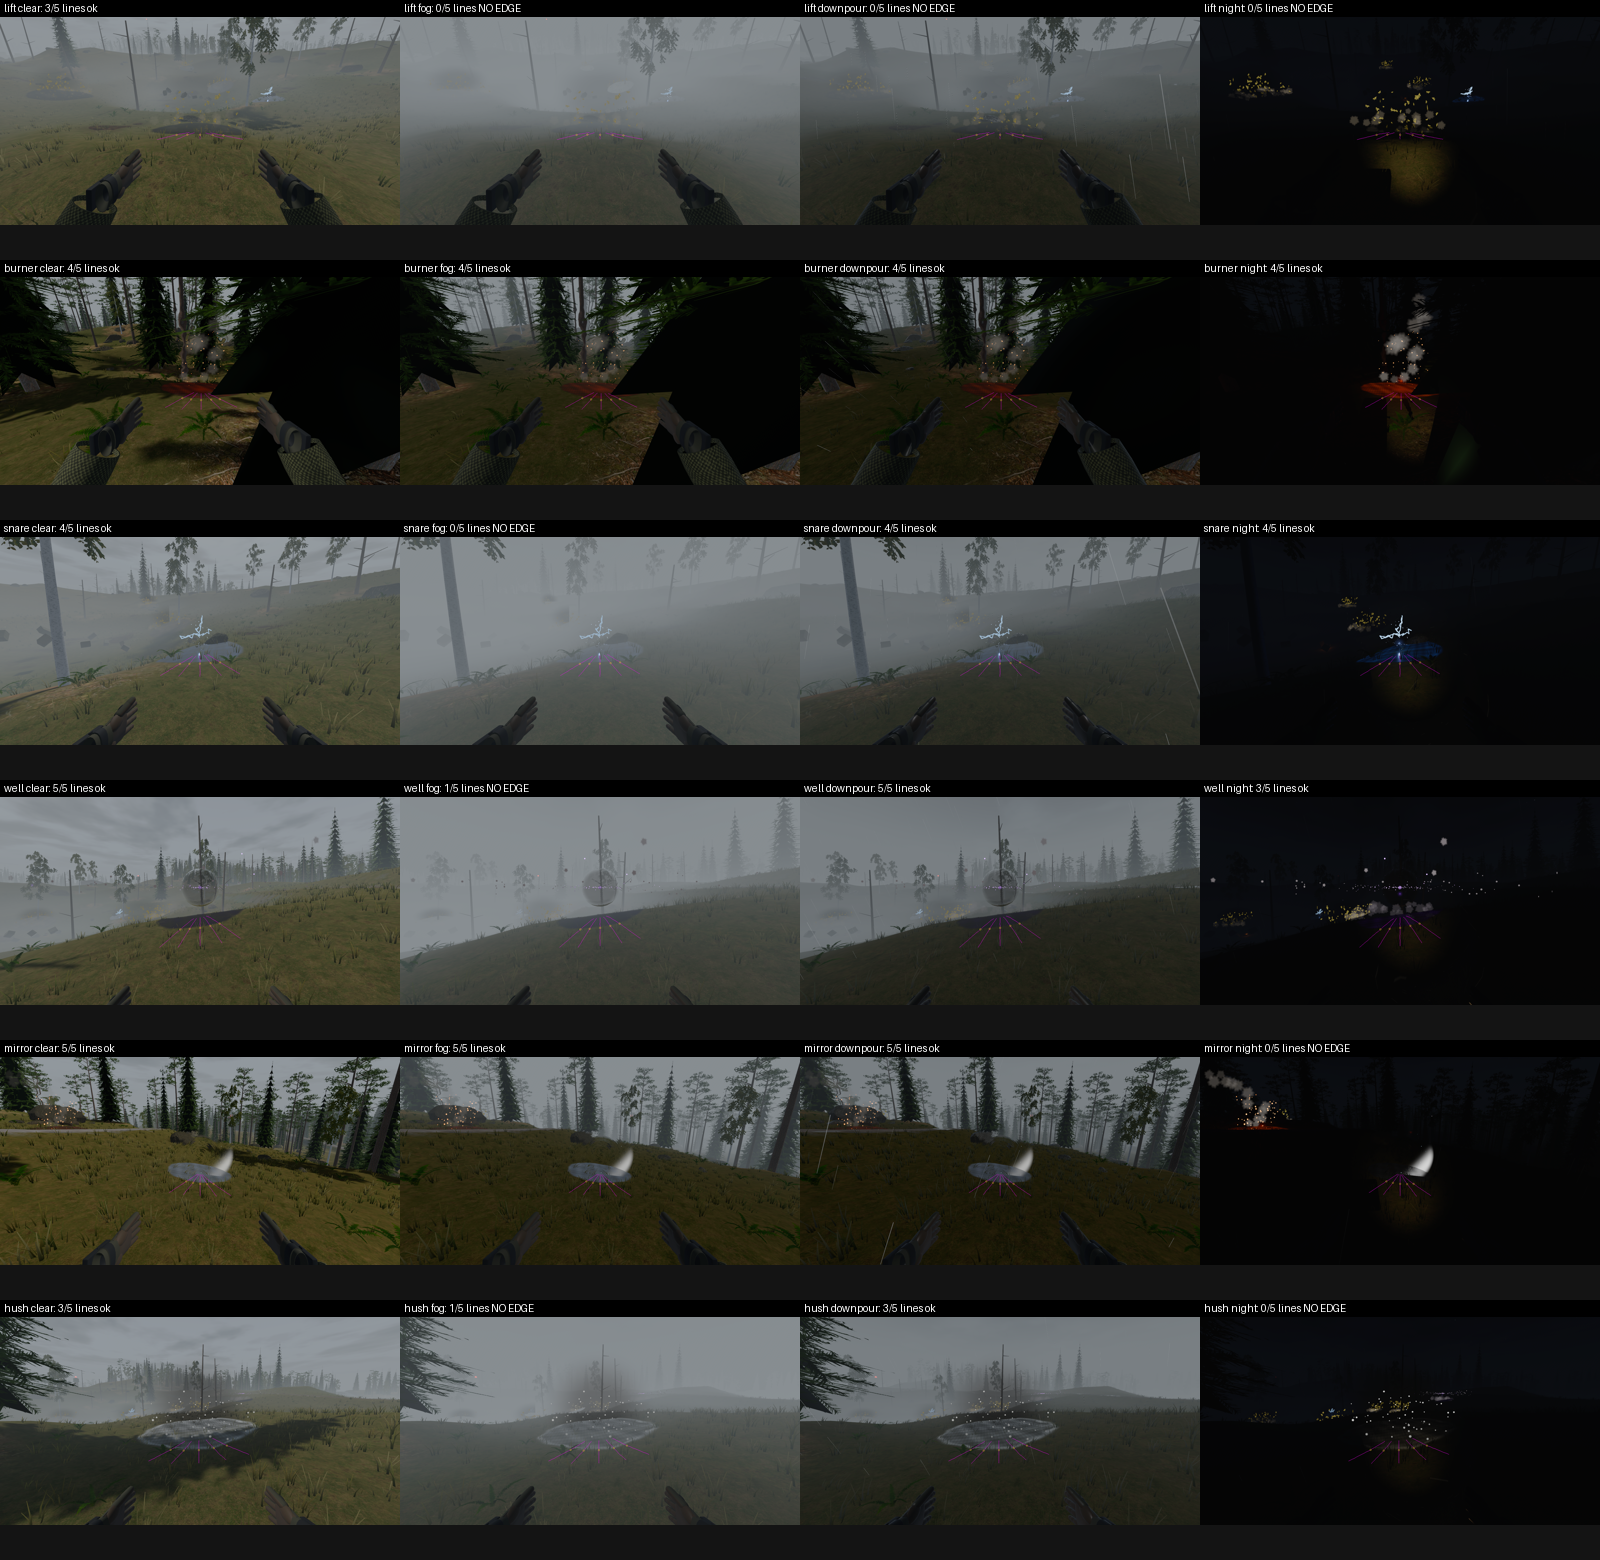
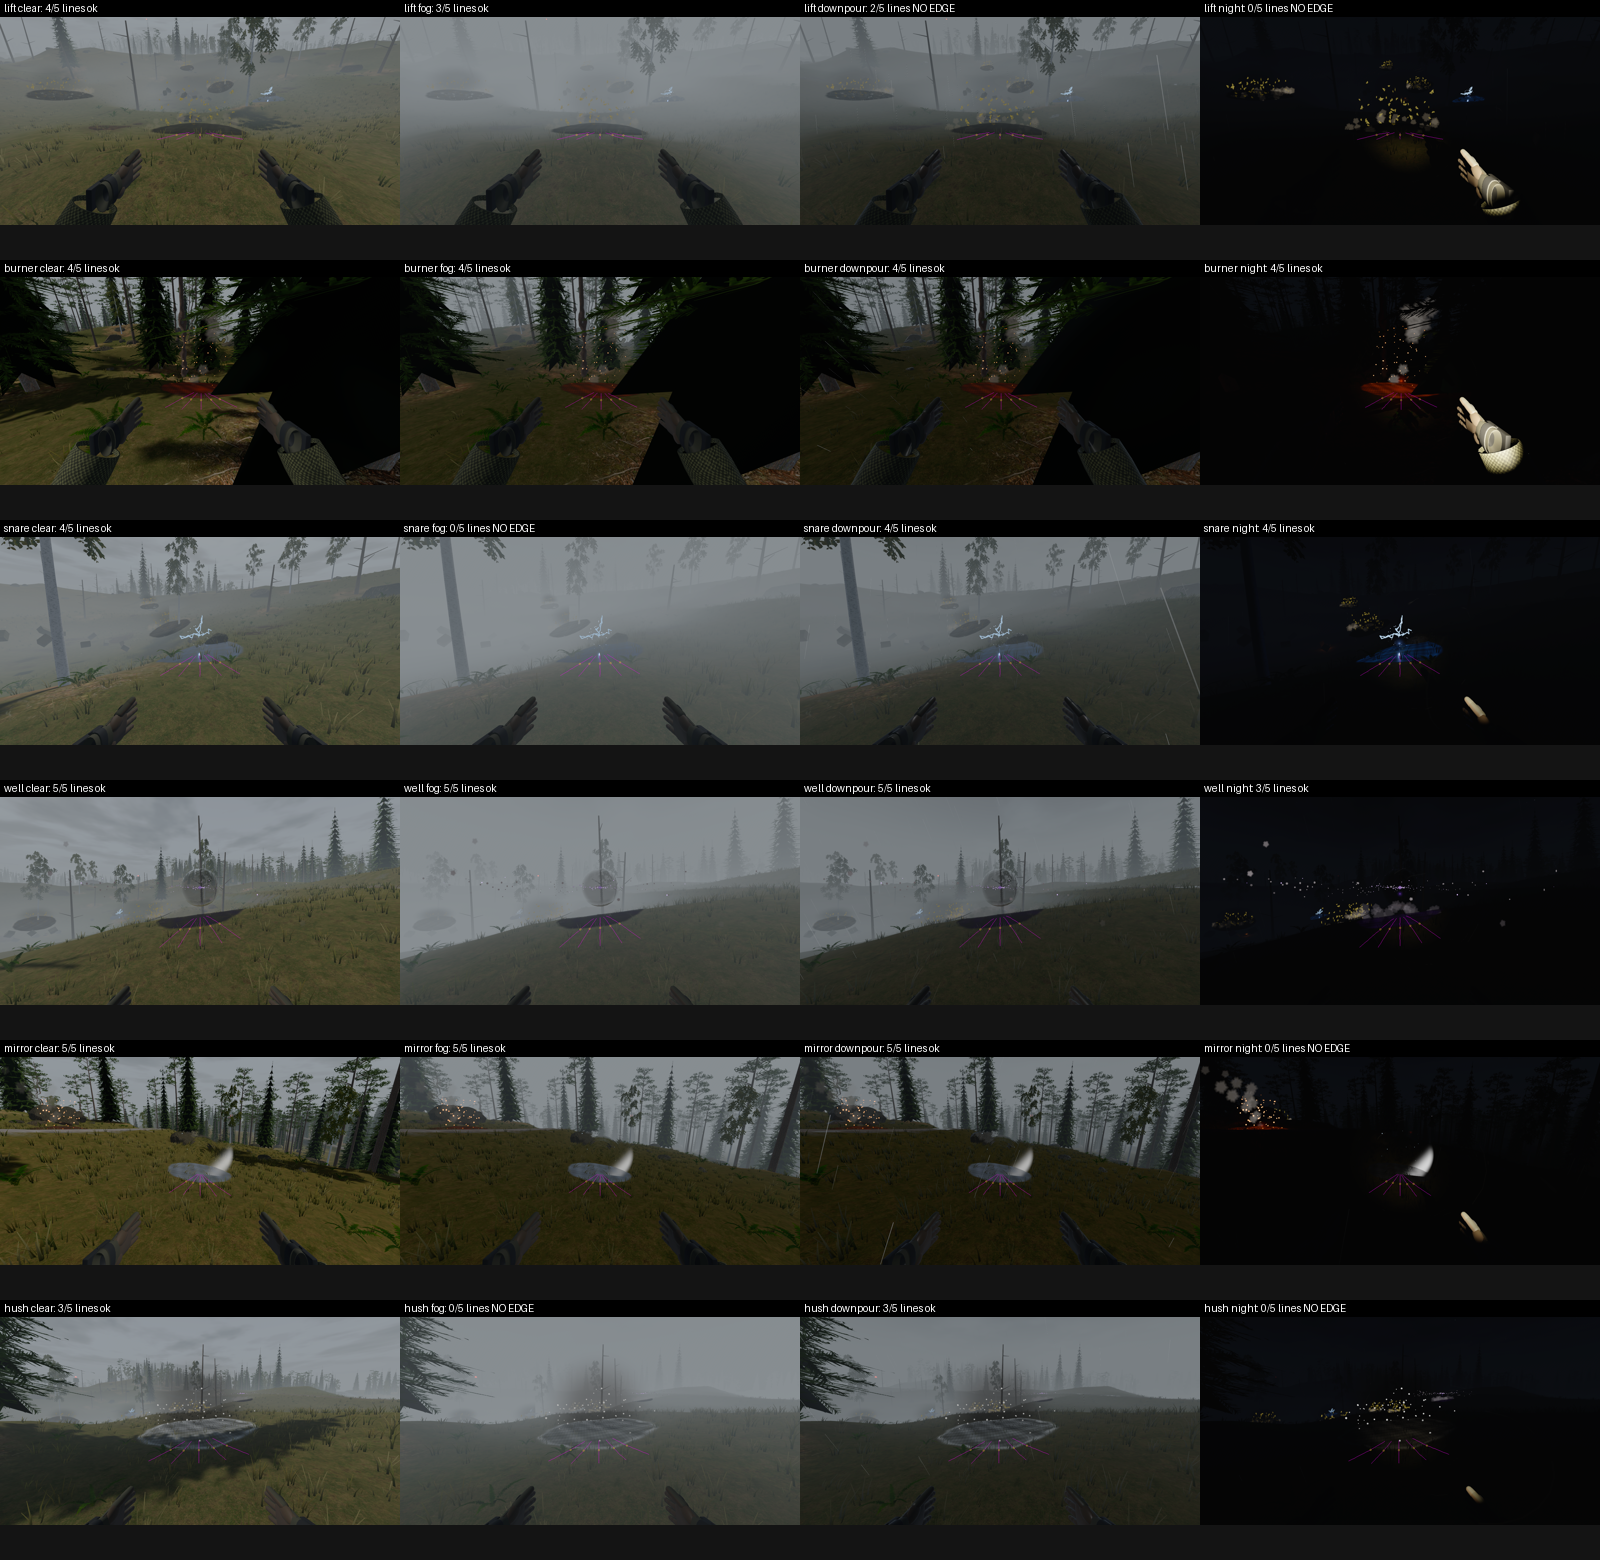
Anomalies: a lift's, a mirror's and a hush's ground hold a faint light of their own, so their edges show in the dark
Claude-Session: https://claude.ai/code/session_01Jh513kJMQ8gf9L4fAucvBe

diff --git a/src/anomaly/visuals.rs b/src/anomaly/visuals.rs
@@ -511,7 +511,13 @@ fn init_assets(
     );
     // Scoured bare by the lift: raw brown earth, every loose thing on it
     // and the turf itself taken up. (Pale dry earth read as dry grass.)
-    let flattened = ground(Color::srgba(0.13, 0.1, 0.07, 0.9), LinearRgba::BLACK, 0.95);
+    // (A faint warmth in it, the lift's own light on it: in the dark its
+    // edge still shows.)
+    let flattened = ground(
+        Color::srgba(0.13, 0.1, 0.07, 0.9),
+        LinearRgba::rgb(0.012, 0.008, 0.003),
+        0.95,
+    );
     // Fused by the arcs: dark and glassy, still charged: a faint cold blue
     // glow in it.
     let glassy = ground(
@@ -520,10 +526,21 @@ fn init_assets(
         0.2,
     );
     // Glazed like still water under a mirror, giving back the sky.
-    let glazed = ground(Color::srgba(0.45, 0.47, 0.5, 0.8), LinearRgba::BLACK, 0.06);
+    // It holds a little light, like still water at dusk: in the dark it's
+    // the palest thing on the ground.
+    let glazed = ground(
+        Color::srgba(0.45, 0.47, 0.5, 0.8),
+        LinearRgba::rgb(0.008, 0.01, 0.014),
+        0.06,
+    );
     // Pale dust settled out of the dead air, the ground's colour gone
     // under it.
-    let hushed = ground(Color::srgba(0.7, 0.7, 0.68, 0.8), LinearRgba::BLACK, 0.95);
+    // Pale as ash, faintly so even in the dark.
+    let hushed = ground(
+        Color::srgba(0.7, 0.7, 0.68, 0.8),
+        LinearRgba::rgb(0.01, 0.01, 0.01),
+        0.95,
+    );
     // Hoar on the ground, faintly blue, a little lit of itself.
     let frosted = ground(
         Color::srgba(0.82, 0.9, 1.0, 0.75),
